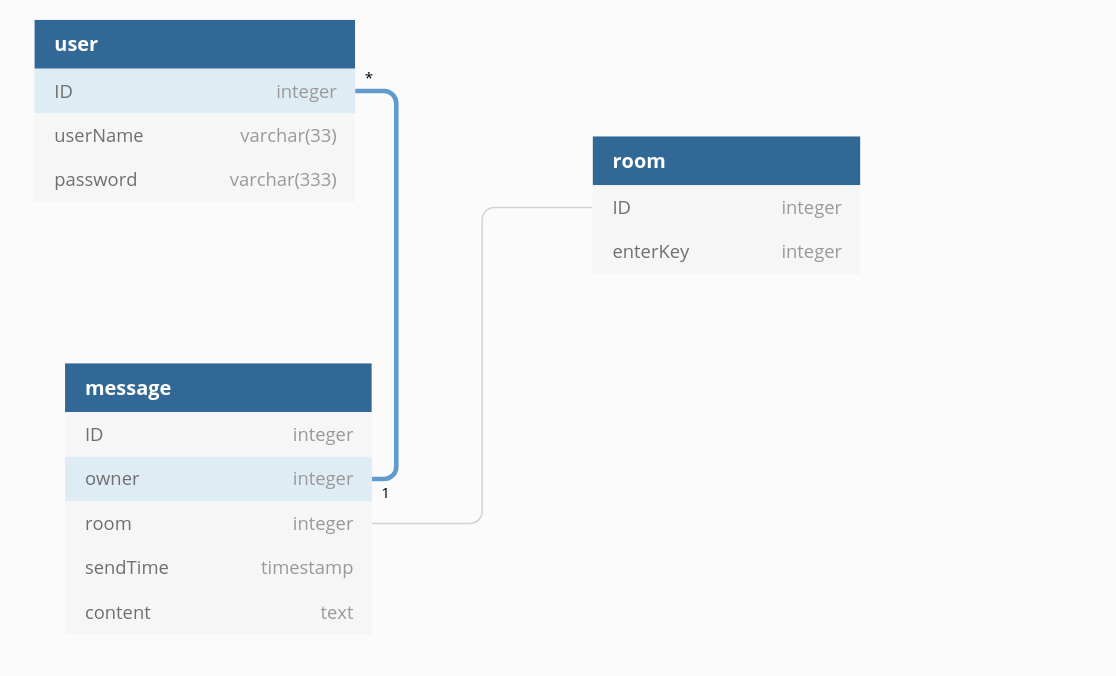
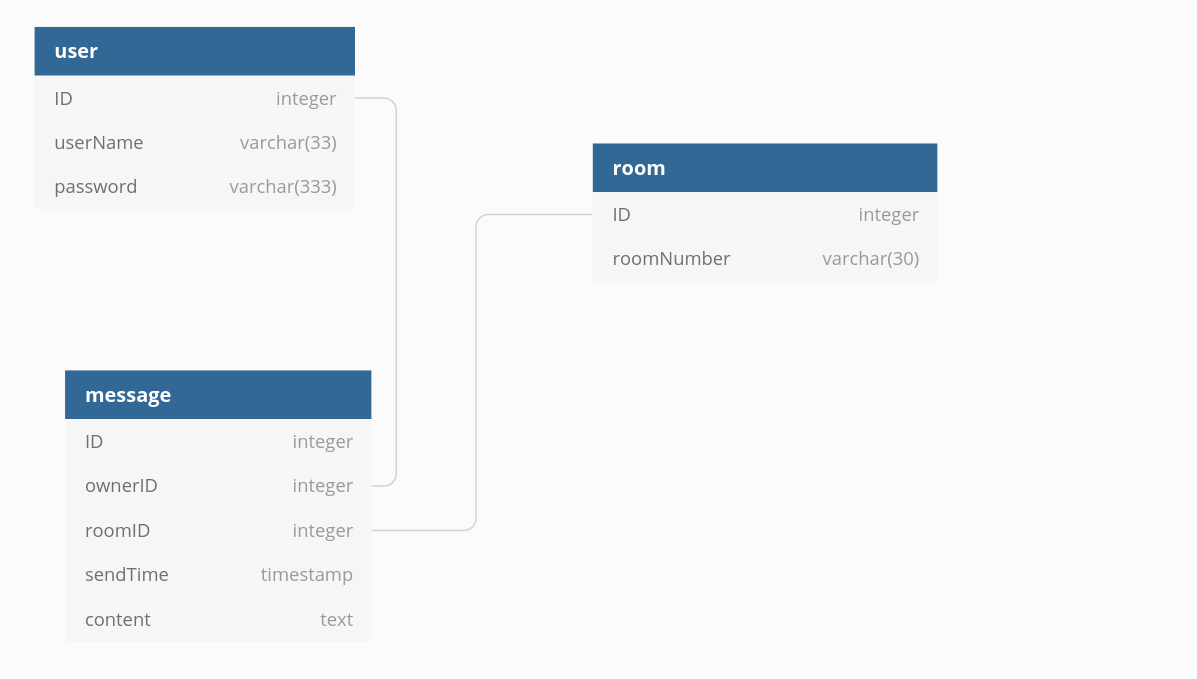
:art: 修改数据库的结构，取消聊天室的关于创建者的信息

diff --git a/model/model.go b/model/model.go
@@ -11,16 +11,15 @@ type User struct {
 
 // Room 房间表
 type Room struct {
-	ID       int `json:"id"`
-	OwnerID  int `json:"owner_id"`
-	EnterKey int `json:"enter_key"`
+	ID         int    `json:"id"`
+	RoomNumber string `json:"room_number"`
 }
 
 // Message 消息表
 type Message struct {
-	ID       int        `json:"id"`
-	OwnerID  int        `json:"owner_id"`
-	RoomID   int        `json:"room_id"`
-	SendTime *time.Time `json:"send_time"`
-	Content  string     `json:"content"`
+	ID        int        `json:"id"`
+	OwnerID   int        `json:"owner_id"`
+	RoomID    int        `json:"room_id"`
+	CreatedAt *time.Time `json:"created_at" gorm:"column:created_at"`
+	Content   string     `json:"content"`
 }
